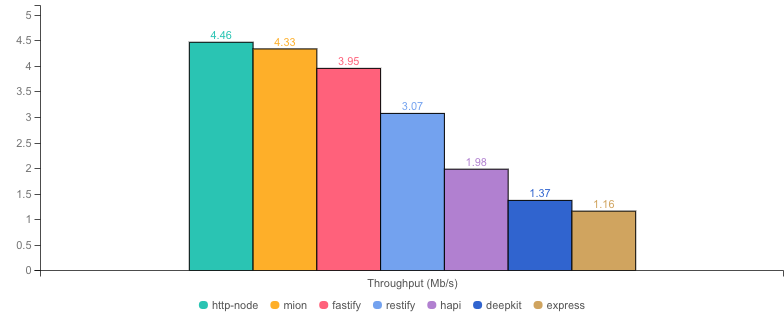
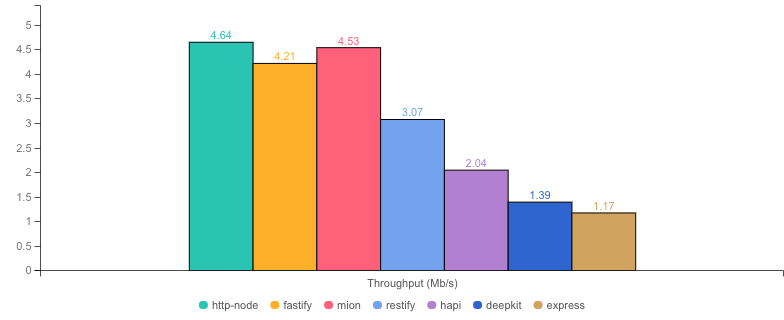
remove no reflection benchmarks as that options is not moving ahead

diff --git a/metrics/process-results.js b/metrics/process-results.js
@@ -13,7 +13,7 @@ async function updateReadme(startupResults) {
   const machineInfo = `${os.platform()} ${os.arch()} | ${
     os.cpus().length
   } vCPUs | ${(os.totalmem() / 1024 ** 3).toFixed(1)}GB Mem`;
-  const benchmarkMd = `## Metrics
+  const benchmarkMd = `## Benchmark Results
 * __Machine:__ ${machineInfo}
 * __Node:__ \`${process.version}\`
 * __Run:__ ${new Date()}
@@ -22,10 +22,10 @@ async function updateReadme(startupResults) {
 * __listen:__ time elapsed until the http server is ready to accept requests (cold start)
 ${startupResults}
 `;
-  const md = fs.readFileSync("METRICS.md", "utf8");
+  const md = fs.readFileSync("COLD-STARTS.md", "utf8");
   fs.writeFileSync(
-    "METRICS.md",
-    md.split("## Metrics")[0] + benchmarkMd,
+    "COLD-STARTS.md",
+    md.split("## Benchmark Results")[0] + benchmarkMd,
     "utf8"
   );
 }

diff --git a/lib/packages-mion-options.js b/lib/packages-mion-options.js
@@ -50,14 +50,6 @@ const packages = {
     description:
       "mion with 3000 routes loaded (should have the most memory usage)",
   },
-  "mion-no-reflection": {
-    hasRouter: true,
-    package: "@mionkit/compiled-app",
-    validation: "✓",
-    version: "0.1.0",
-    description:
-      "using mion http with disableAllReflection = true, so can be used directly from javascript",
-  },
 };
 
 const choices = [];

diff --git a/metrics/startup.js b/metrics/startup.js
@@ -13,7 +13,7 @@ const runSample = (cb) => {
   };
 };
 
-const routeNumbers = [10, 100, 500, 1000, 2000, 3000, 4000, 5000];
+const routeNumbers = [10, 100, 500, 1000, 2000, 3000, 5000];
 
 const measureStartupListen = runSample(() => {
   return new Promise((resolve) => {

diff --git a/README.md b/README.md
@@ -95,47 +95,37 @@ This said it is the baseline memory which is a bit Higher (when the code gets lo
 
 ## Benchmark Results
 
-* __Machine:__ darwin x64 | 8 vCPUs | 16.0GB Mem
-* __Node:__ `v16.18.0`
-* __Run:__ Thu Jul 20 2023 09:47:27 GMT+0100 (Irish Standard Time)
-* __Method:__ `autocannon -c 100 -d 40.02 -p 10 localhost:3000` (two rounds; one to warm-up, one to measure)
+- **Machine:** darwin x64 | 8 vCPUs | 16.0GB Mem
+- **Node:** `v16.18.0`
+- **Run:** Sat Jul 22 2023 12:58:06 GMT+0100 (Irish Standard Time)
+- **Method:** `autocannon -c 100 -d 40.02 -p 10 localhost:3000` (two rounds; one to warm-up, one to measure)
 
-#### Req (R/s) 
+#### Req (R/s)
 
 ![benchmarks](assets/public/charts-servers/requests.png)
 
-
-
-#### Throughput (Mb/s) 
+#### Throughput (Mb/s)
 
 ![benchmarks](assets/public/charts-servers/throughput.png)
 
-
-
-#### Latency (ms) 
+#### Latency (ms)
 
 ![benchmarks](assets/public/charts-servers/latency.png)
 
-
-
-#### Max Memory (Mb) 
+#### Max Memory (Mb)
 
 ![benchmarks](assets/public/charts-servers/maxMem.png)
 
-
-
-#### Memory Series (MB) 
+#### Memory Series (MB)
 
 ![benchmarks](assets/public/charts-servers/memSeries.png)
 
-
-
-|           | Version        | Router | Req (R/s)   | Latency (ms) | Output (Mb/s) | Max Memory (Mb) | Max Cpu (%) | Validation | Description                                                                                                |
-| :--       | --:            | --:    | :-:         | --:          | --:           | --:             | --:         | :-:        | :--                                                                                                        |
-| http-node | 16.18.0        | ✗      | 17437.7     | 56.82        | 4.46          | 77              | 119         | ✗          | Super basic and completely useless bare http server, should be the theoretical upper limit in performance. |
-| **mion**  | **0.1.0**      | **✓**  | **15598.2** | **63.61**    | **4.33**      | **151**         | **145**     | **✓**      | **validation and serialization out of the box**                                                            |
-| fastify   | 4.19.2         | ✓      | 15414.2     | 64.36        | 3.95          | 89              | 128         | -          | Validation is done using schemas and ajv. Schemas must be generated manually or using third party tools.   |
-| restify   | 8.6.1          | ✓      | 11925.8     | 83.30        | 3.07          | 101             | 116         | ✗          | Requires third party tools.                                                                                |
-| hapi      | 20.3.0         | ✓      | 7736.8      | 128.58       | 1.98          | 92              | 125         | ✗          | Manual validation using joi, or third party tools.                                                         |
-| deepkit   | 1.0.1-alpha.75 | ✓      | 5358.6      | 185.78       | 1.37          | 273             | 142         | ✓          | Automatic validation out of the box (The ones that made @deepkit/types), Their rpc is way more performant. |
-| express   | 4.18.2         | ✓      | 4547.4      | 218.95       | 1.16          | 111             | 124         | ✗          | needs third party tools, or third party tools                                                              |
+|           |        Version | Router |  Req (R/s)  | Latency (ms) | Output (Mb/s) | Max Memory (Mb) | Max Cpu (%) | Validation | Description                                                                                                |
+| :-------- | -------------: | -----: | :---------: | -----------: | ------------: | --------------: | ----------: | :--------: | :--------------------------------------------------------------------------------------------------------- |
+| http-node |        16.18.0 |      ✗ |   18162.1   |        54.54 |          4.64 |              77 |         119 |     ✗      | Super basic and completely useless bare http server, should be the theoretical upper limit in performance. |
+| fastify   |         4.19.2 |      ✓ |   16392.5   |        60.47 |          4.21 |              91 |         120 |     -      | Validation is done using schemas and ajv. Schemas must be generated manually or using third party tools.   |
+| **mion**  |      **0.1.0** |  **✓** | **16337.7** |    **60.71** |      **4.53** |         **155** |     **142** |   **✓**    | **validation and serialization out of the box**                                                            |
+| restify   |          8.6.1 |      ✓ |   11917.0   |        83.37 |          3.07 |              95 |         101 |     ✗      | Requires third party tools.                                                                                |
+| hapi      |         20.3.0 |      ✓ |   7964.1    |       124.92 |          2.04 |              99 |         128 |     ✗      | Manual validation using joi, or third party tools.                                                         |
+| deepkit   | 1.0.1-alpha.75 |      ✓ |   5451.3    |       182.63 |          1.39 |             289 |         139 |     ✓      | Automatic validation out of the box (The ones that made @deepkit/types), Their rpc is way more performant. |
+| express   |         4.18.2 |      ✓ |   4575.4    |       217.56 |          1.17 |             116 |         124 |     ✗      | needs third party tools, or third party tools                                                              |

diff --git a/MION-OPTIONS.md b/MION-OPTIONS.md
@@ -28,8 +28,8 @@ We show the benchmarks and let you take your own conclusions!!
 
 * __Machine:__ darwin x64 | 8 vCPUs | 16.0GB Mem
 * __Node:__ `v16.18.0`
-* __Run:__ Thu Jul 20 2023 00:50:28 GMT+0100 (Irish Standard Time)
-* __Method:__ `autocannon -c 100 -d 40.03 -p 10 localhost:3000` (two rounds; one to warm-up, one to measure)
+* __Run:__ Sat Jul 22 2023 12:50:59 GMT+0100 (Irish Standard Time)
+* __Method:__ `autocannon -c 100 -d 40.02 -p 10 localhost:3000` (two rounds; one to warm-up, one to measure)
 
 #### Req (R/s) 
 
@@ -69,10 +69,9 @@ We show the benchmarks and let you take your own conclusions!!
 
 |                              | Version   | Router | Req (R/s)   | Latency (ms) | Output (Mb/s) | Max Memory (Mb) | Max Cpu (%) | Validation | Description                                                                                     |
 | :--                          | --:       | --:    | :-:         | --:          | --:           | --:             | --:         | :-:        | :--                                                                                             |
-| http-node                    | 16.18.0   | ✗      | 17938.1     | 55.23        | 4.58          | 77              | 124         | ✗          | theoretical upper limit in performance.                                                         |
-| **mion**                     | **0.1.0** | **✓**  | **16640.8** | **59.57**    | **4.62**      | **150**         | **142**     | **✓**      | **using mion http with promises `HttpOptions.useCallbacks = false`**                            |
-| mion-callbacks               | 0.1.0     | ✓      | 14401.8     | 68.89        | 4.57          | 87              | 134         | ✓          | using mion http with callbacks `HttpOptions.useCallbacks = true`                                |
-| mion-async-context-callbacks | 0.1.0     | ✓      | 13409.6     | 74.03        | 4.26          | 87              | 121         | ✓          | using mion http with callbacks and sync call context `RouterOptions.useAsyncCallContext = true` |
-| mion-no-reflection           | 0.1.0     | ✓      | 13092.3     | 75.84        | 4.16          | 87              | 137         | ✓          | using mion http with disableAllReflection = true, so can be used directly from javascript       |
-| mion3000                     | 0.1.0     | ✓      | 12719.6     | 78.06        | 4.04          | 146             | 138         | ✓          | mion with 3000 routes loaded (should have the most memory usage)                                |
-| mion-async-context           | 0.1.0     | ✓      | 12594.4     | 78.84        | 4.00          | 146             | 140         | ✓          | using mion http with promises and sync call context `RouterOptions.useAsyncCallContext = true`  |
+| http-node                    | 16.18.0   | ✗      | 18676.9     | 53.03        | 4.77          | 84              | 121         | ✗          | theoretical upper limit in performance.                                                         |
+| **mion**                     | **0.1.0** | **✓**  | **17021.1** | **58.26**    | **4.72**      | **147**         | **143**     | **✓**      | **using mion http with promises `HttpOptions.useCallbacks = false`**                            |
+| mion-async-context-callbacks | 0.1.0     | ✓      | 14749.6     | 67.28        | 4.68          | 93              | 135         | ✓          | using mion http with callbacks and sync call context `RouterOptions.useAsyncCallContext = true` |
+| mion-async-context           | 0.1.0     | ✓      | 14355.2     | 69.18        | 4.56          | 88              | 134         | ✓          | using mion http with promises and sync call context `RouterOptions.useAsyncCallContext = true`  |
+| mion-callbacks               | 0.1.0     | ✓      | 14301.8     | 69.38        | 4.54          | 91              | 134         | ✓          | using mion http with callbacks `HttpOptions.useCallbacks = true`                                |
+| mion3000                     | 0.1.0     | ✓      | 13065.0     | 76.00        | 4.15          | 148             | 138         | ✓          | mion with 3000 routes loaded (should have the most memory usage)                                |

diff --git a/COLD-STARTS.md b/COLD-STARTS.md
@@ -1,0 +1,45 @@
+# Cold Starts
+
+Cold start times are measure using the http server but are also indicative of how the [serverless version](https://github.com/MionKit/mion/tree/master/packages/serverless) could perform in this regard, as both `@MionKit/http` an `@MionKit/serverless` are just a wrapper around `@MionKit/router` which contains all the logic.
+
+- These metrics show the start time when loading 1 route and then increasing the number or routes loaded until 5,000 routes.
+- The `startup time` is the time it takes to load the @MionKit/http library itself + create the routes object in memory.
+- The `listen time` is the time it takes to parse and generate a flat router so there is no need to process the url when a request come in.
+
+## Benchmark Results
+
+- **Machine:** darwin x64 | 8 vCPUs | 16.0GB Mem
+- **Node:** `v16.18.0`
+- **Run:** Sat Jul 22 2023 13:17:43 GMT+0100 (Irish Standard Time)
+- **Method:** `npm run metrics` (samples: 5)
+- **startup:** time elapsed to setup the application
+- **listen:** time elapsed until the http server is ready to accept requests (cold start)
+
+### Cold starts: listen time (ms) lower is better
+
+![benchmarks](assets/public/charts/cold-starts.png)
+
+|                                | startup(ms) | listen(ms) |
+| ------------------------------ | ----------- | ---------- |
+| 10-startup-deepkit-routes.js   | 1467        | 1469       |
+| 10-startup-fastify-routes.js   | 164         | 242        |
+| 10-startup-mion-routes.js      | 79          | 88         |
+| 100-startup-deepkit-routes.js  | 1468        | 1470       |
+| 100-startup-fastify-routes.js  | 184         | 366        |
+| 100-startup-mion-routes.js     | 79          | 89         |
+| 500-startup-deepkit-routes.js  | 1450        | 1451       |
+| 500-startup-fastify-routes.js  | 279         | 866        |
+| 500-startup-mion-routes.js     | 82          | 95         |
+| 1000-startup-deepkit-routes.js | 1476        | 1478       |
+| 1000-startup-fastify-routes.js | 379         | 1485       |
+| 1000-startup-mion-routes.js    | 82          | 98         |
+| 2000-startup-deepkit-routes.js | 1628        | 1630       |
+| 2000-startup-fastify-routes.js | 623         | 2650       |
+| 2000-startup-mion-routes.js    | 80          | 112        |
+| 3000-startup-deepkit-routes.js | 1505        | 1507       |
+| 3000-startup-fastify-routes.js | 919         | 4024       |
+| 3000-startup-mion-routes.js    | 87          | 128        |
+| 5000-startup-deepkit-routes.js | 1500        | 1502       |
+| 5000-startup-fastify-routes.js | 1971        | 7043       |
+| 5000-startup-mion-routes.js    | 85          | 136        |
+| startup-listen.js              | 82          | 86         |
